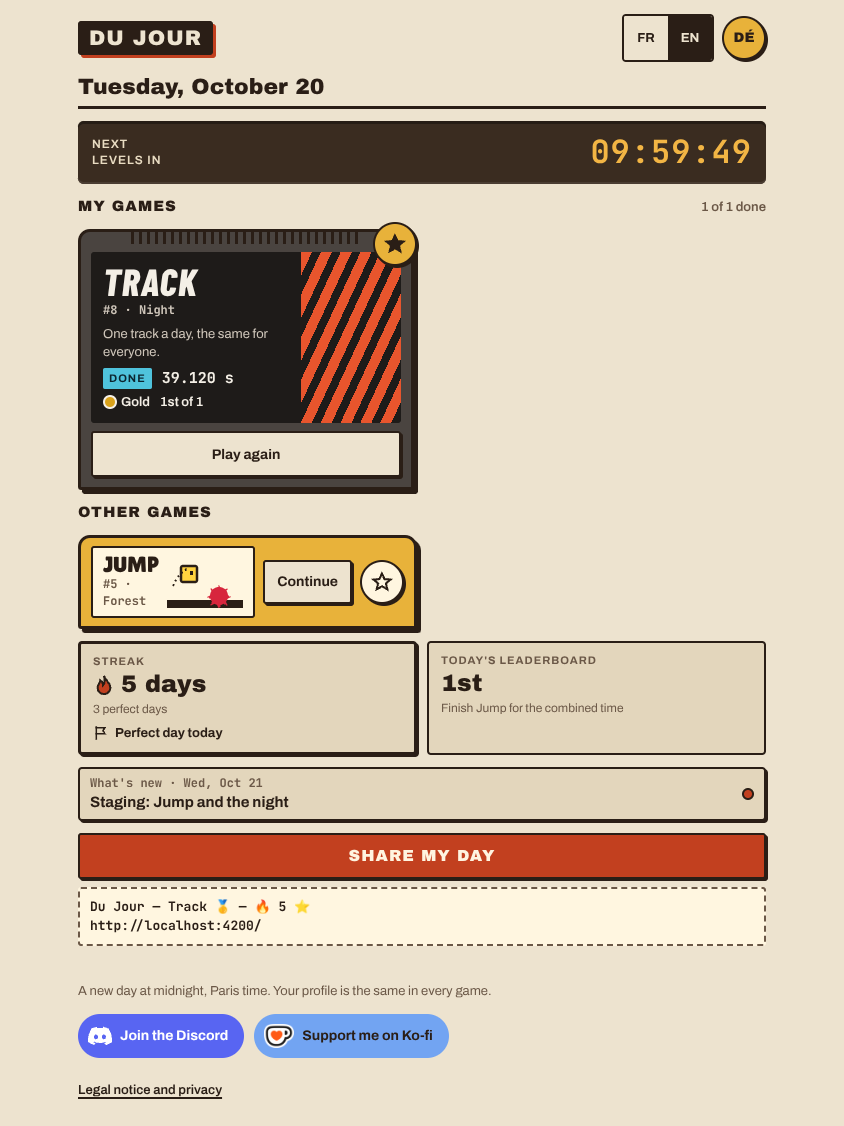
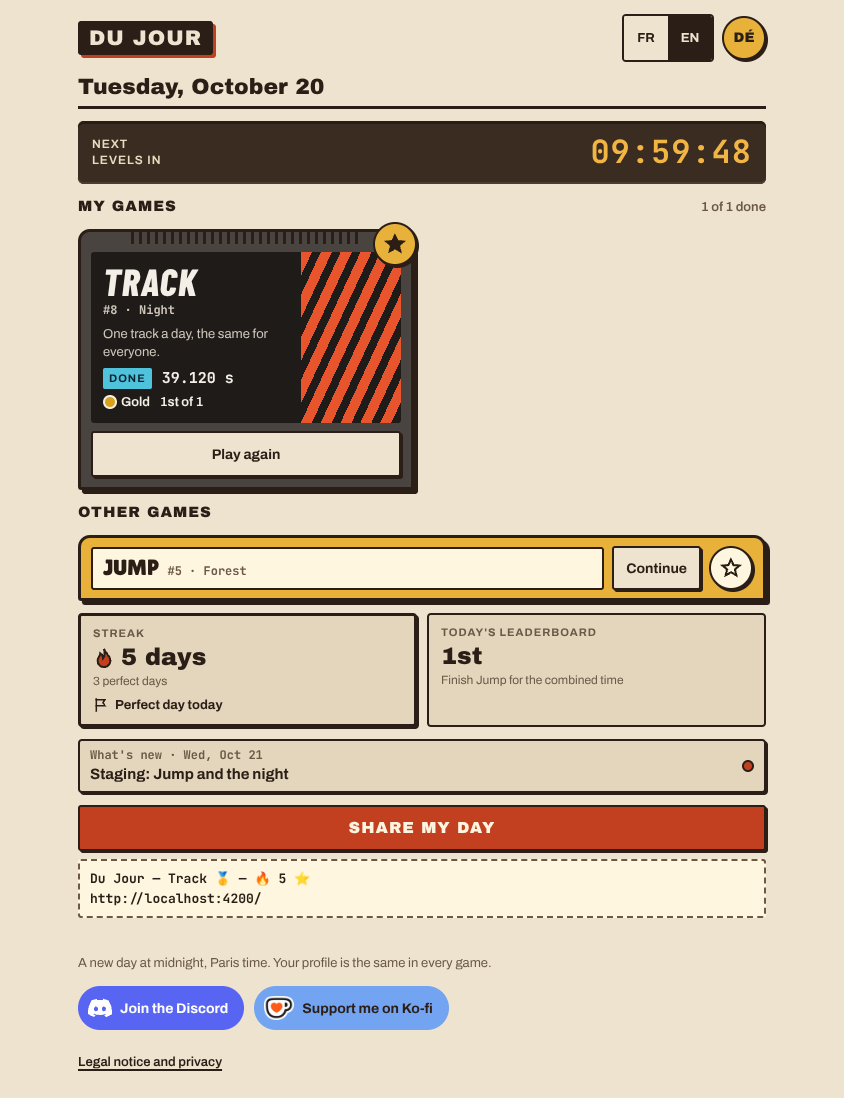
Lot F1 : cartouches compactes lisibles (Track, Jump, Tower), une colonne
- Le décor de l'étiquette (dessin de Jump et de Tower) disparaît en compact, la livrée
  de Track devient une bande étroite sous laquelle le texte ne passe pas : plus de
  chevauchement avec le numéro, le titre ni le bouton.
- « Les autres jeux » : une ligne par jeu, jamais deux colonnes étroites.
- La pastille « Nouveau » se pose sur le bord de la ligne.
- Budget du portail : +2 094 o mesurés, plafond 35 150 (à valider par Nathan).

Claude-Session: https://claude.ai/code/session_012eMWG2xN8q8rTXkqMFU2iP

diff --git a/apps/portail/test/construction.test.ts b/apps/portail/test/construction.test.ts
@@ -12,7 +12,7 @@ import { VITRINE, portailEnv } from "../../../scripts/site.mjs";
 //     déclarées par la page ≤ 150 ko, seules Archivo Black et Archivo 400 préchargées ;
 //   - la vitrine `/ui/` n'est jamais construite pour la production.
 // Les chiffres sont écrits dans la sortie du test (et recopiés dans le README du lot).
-export const BUDGET_PREMIER_CHARGEMENT = 35_100; // lot F1 : 33 000 → 35 100 o (+2 100 pour +2 036 mesurés), « Mes jeux » (l'étoile, la cartouche compacte, la répartition, la pastille « Nouveau », les textes fr + en) : **à valider par Nathan** (`docs/plateforme/budgets.md`) ; avant : lot S1 : 32 768 → 33 000 o (+232 o), décision de Nathan du 31/10/2026 : les boutons Discord / Ko-fi passent par le composant du socle (jetons de couleur, code) ; avant : 32 * 1024 ; lot 53 : 30 → 32 ko (+2 048 o), décision de Nathan du 28/10/2026 : la pastille de l'iPhone, « Retrouver mon profil » (à la demande), l'en-tête iOS, les marges de sécurité
+export const BUDGET_PREMIER_CHARGEMENT = 35_150; // lot F1 : 33 000 → 35 150 o (+2 150 pour +2 094 mesurés), « Mes jeux » (l'étoile, la cartouche compacte, la répartition, la pastille « Nouveau », les textes fr + en) : **à valider par Nathan** (`docs/plateforme/budgets.md`) ; avant : lot S1 : 32 768 → 33 000 o (+232 o), décision de Nathan du 31/10/2026 : les boutons Discord / Ko-fi passent par le composant du socle (jetons de couleur, code) ; avant : 32 * 1024 ; lot 53 : 30 → 32 ko (+2 048 o), décision de Nathan du 28/10/2026 : la pastille de l'iPhone, « Retrouver mon profil » (à la demande), l'en-tête iOS, les marges de sécurité
 export const BUDGET_POLICES = 150 * 1024;
 
 const ROOT = join(__dirname, "../../..");

diff --git a/packages/ui/src/favoris.css b/packages/ui/src/favoris.css
@@ -37,21 +37,32 @@
 .dj-cartouche--avec-favori {
   position: relative;
 }
-/* La cartouche compacte : une ligne, mêmes coque, couleurs et étiquette que la pleine (variante, pas un nouveau dessin). Les stries de préhension laissent la place. */
+/* La cartouche compacte : une ligne, mêmes coque, couleurs et étiquette que la pleine (variante, pas un nouveau dessin). Les stries de préhension laissent la place ; les décors de
+   l'étiquette (dessin de Jump et de Tower) aussi — le nom, le numéro et la couleur du jeu restent ; la livrée de Track n'est plus qu'une bande étroite, sous laquelle le texte ne passe pas. */
 .dj-cartouche--compacte {
+  position: relative;
   flex-direction: row;
   align-items: center;
   gap: var(--dj-espace-3);
   padding: var(--dj-espace-3) var(--dj-espace-4);
 }
-.dj-cartouche--compacte .dj-cartouche__stries {
+.dj-cartouche--compacte .dj-cartouche__stries,
+.dj-cartouche--compacte .jump-etiquette__dessin,
+.dj-cartouche--compacte .tower-etiquette__dessin {
   display: none;
 }
 .dj-cartouche--compacte .dj-etiquette {
   flex: 1;
   min-width: 0;
   min-height: 0;
-  padding: var(--dj-espace-2) var(--dj-espace-4);
+  padding: var(--dj-espace-3) var(--dj-espace-4);
+}
+.dj-cartouche--compacte .track-etiquette {
+  padding-right: 52px;
+}
+.dj-cartouche--compacte .track-etiquette__livree {
+  width: 40px;
+  right: -8px;
 }
 .dj-cartouche--compacte .dj-cartouche__action {
   flex: none;
@@ -61,4 +72,3 @@
   min-height: var(--dj-cible);
   padding: 0 var(--dj-espace-5);
 }
-

diff --git a/apps/portail/src/portail.css b/apps/portail/src/portail.css
@@ -694,6 +694,11 @@
 .portail-etagere--compacte {
   gap: var(--dj-espace-4);
 }
+@media (min-width: 600px) {
+  .portail-etagere.portail-etagere--compacte {
+    grid-template-columns: minmax(0, 1fr); /* une ligne par jeu, jamais deux colonnes étroites */
+  }
+}
 .portail-etagere--compacte .track-etiquette__tete,
 .portail-etagere--compacte .jump-etiquette__tete,
 .portail-etagere--compacte .tower-etiquette__tete {
@@ -729,7 +734,8 @@
   letter-spacing: 0.04em;
   text-transform: uppercase;
 }
-.dj-cartouche--avec-favori > .dj-badge-nouveau {
+.dj-cartouche--avec-favori > .dj-badge-nouveau,
+.dj-cartouche--compacte > .dj-badge-nouveau {
   position: absolute;
   top: -12px;
   left: var(--dj-espace-5);

diff --git a/docs/plateforme/budgets.md b/docs/plateforme/budgets.md
@@ -10,7 +10,7 @@ Octets **compressés** (gzip) pour le JS, le CSS et le HTML ; octets des fichier
 
 | Clé | Application | Mesure | Budget (o) | Avant | Après | Marge | Gardé par |
 |---|---|---|---|---|---|---|---|
-| `portail.premier` | Portail | premier chargement de l'accueil (HTML, JS, CSS) | 35 100 | 22 360 | 35 036 (lot F1 : **+2 036 mesuré contre `main` reconstruit à part (33 000)** — « Mes jeux » : l'étoile (`boutonFavori`, `iconeEtoile`), la variante compacte de la cartouche, la répartition mes jeux / autres jeux, la ligne « à partir de demain », la pastille « Nouveau », la lecture de la liste de favoris, les textes français et anglais ; l'écriture au serveur est déjà à la demande (`favorisReseau.ts`) ; **plafond relevé de 2 100 o : à valider par Nathan** — le lot demandait un budget tenu, l'étoile et la cartouche compacte sont dans le premier dessin de l'accueil et ne peuvent pas être à la demande ; autre piste notée au rapport : charger le catalogue anglais du portail à la demande) ; 32 897 (lot S1 : +142 mesuré contre `main` reconstruit à part (32 755) — le pied passe par le composant du socle ; plafond relevé de 232 o par Nathan, 31/10/2026) ; 32 755 (lot TP : mesuré après la fusion de `main` — la cartouche de Tower, l'onglet et la ligne de partage (textes raccourcis pour tenir) ; avant : 31 650 (lot « musique » : +0 mesuré contre `main` reconstruit à part (31 650 ; le 31 590 noté par le lot M1 était resté en deçà) — la clé gardée `cdj:musique` de `@cdj/profile`; avant : 31 590 (lot M1 : +151 mesuré contre `main` reconstruit à part (31 439) — l'écoute de la première manette de chacune des quatre pages ; le menu est à la demande ; avant : 31 439 (lot T1 : −1 027 mesuré contre `main` reconstruit à part (32 466) — les six jetons de Tower coûtent ≈ +115 o, mais la table des jetons n'est plus gardée dans le JavaScript quand l'application n'appelle pas `valeurJeton` (`tous()` lu à la demande, `packages/ui/src/jetons.ts`) : ≈ −1 100 o ; 32 466 (lot P : +232 mesuré contre `main` reconstruit à part (32 234) — le badge « Brouillon » d'un jeu pas encore ouvert (aperçu de PR), `compte` et `brouillon` de la réponse de l'accueil, la rubrique `portail.brouillon`; 32 225 (lot G1 : +15 mesuré contre `main` (32 210) ; l'icône fantôme, le bouton et leurs textes sont hors du chunk du portail; 32 210 (lot 53 : +1 564 mesuré contre `main` reconstruit à part — la pastille de l'iPhone (`astuceIphone`, `pleinEcran.ts`) qui entre dans le portail, l'en-tête iOS des pages, `proposerRetrouver` (l'écran « Retrouver mon profil » est dans `retrouverPortail`, à la demande) ; **plafond relevé de 2 048 o par Nathan le 28/10/2026**; 30 646 (pied du portail : +509, ses deux boutons Discord et Ko-fi, la tasse et le pictogramme en fichiers ; 30 137 (lot N2 : +3 737 mesuré contre la ligne précédente — la ligne « Nouveautés » et sa lecture, le bandeau du message et sa surveillance (`@cdj/profile`, `bandeauAnnonce` du socle), la lecture prudente de la réponse de l'accueil ; la page `/nouveautes/` et ses données sont dans leur propre page, hors de ce chargement; 26 400 (lot N1 : +1 123 mesuré contre `main`, le code partagé de la page `/admin/` — logo, bouton, médaille — qui entre dans le chunk commun ; lot R8 : +854, la génération de données, le message « Nouveau départ » et la date du lancement)))))))))| 64 | `apps/portail/test/construction.test.ts` |
+| `portail.premier` | Portail | premier chargement de l'accueil (HTML, JS, CSS) | 35 150 | 22 360 | 35 094 (lot F1 : **+2 094 mesuré contre `main` reconstruit à part (33 000)** — « Mes jeux » : l'étoile (`boutonFavori`, `iconeEtoile`), la variante compacte de la cartouche, la répartition mes jeux / autres jeux, la ligne « à partir de demain », la pastille « Nouveau », la lecture de la liste de favoris, les textes français et anglais ; l'écriture au serveur est déjà à la demande (`favorisReseau.ts`) ; **plafond relevé de 2 150 o : à valider par Nathan** — le lot demandait un budget tenu, l'étoile et la cartouche compacte sont dans le premier dessin de l'accueil et ne peuvent pas être à la demande ; autre piste notée au rapport : charger le catalogue anglais du portail à la demande) ; 32 897 (lot S1 : +142 mesuré contre `main` reconstruit à part (32 755) — le pied passe par le composant du socle ; plafond relevé de 232 o par Nathan, 31/10/2026) ; 32 755 (lot TP : mesuré après la fusion de `main` — la cartouche de Tower, l'onglet et la ligne de partage (textes raccourcis pour tenir) ; avant : 31 650 (lot « musique » : +0 mesuré contre `main` reconstruit à part (31 650 ; le 31 590 noté par le lot M1 était resté en deçà) — la clé gardée `cdj:musique` de `@cdj/profile`; avant : 31 590 (lot M1 : +151 mesuré contre `main` reconstruit à part (31 439) — l'écoute de la première manette de chacune des quatre pages ; le menu est à la demande ; avant : 31 439 (lot T1 : −1 027 mesuré contre `main` reconstruit à part (32 466) — les six jetons de Tower coûtent ≈ +115 o, mais la table des jetons n'est plus gardée dans le JavaScript quand l'application n'appelle pas `valeurJeton` (`tous()` lu à la demande, `packages/ui/src/jetons.ts`) : ≈ −1 100 o ; 32 466 (lot P : +232 mesuré contre `main` reconstruit à part (32 234) — le badge « Brouillon » d'un jeu pas encore ouvert (aperçu de PR), `compte` et `brouillon` de la réponse de l'accueil, la rubrique `portail.brouillon`; 32 225 (lot G1 : +15 mesuré contre `main` (32 210) ; l'icône fantôme, le bouton et leurs textes sont hors du chunk du portail; 32 210 (lot 53 : +1 564 mesuré contre `main` reconstruit à part — la pastille de l'iPhone (`astuceIphone`, `pleinEcran.ts`) qui entre dans le portail, l'en-tête iOS des pages, `proposerRetrouver` (l'écran « Retrouver mon profil » est dans `retrouverPortail`, à la demande) ; **plafond relevé de 2 048 o par Nathan le 28/10/2026**; 30 646 (pied du portail : +509, ses deux boutons Discord et Ko-fi, la tasse et le pictogramme en fichiers ; 30 137 (lot N2 : +3 737 mesuré contre la ligne précédente — la ligne « Nouveautés » et sa lecture, le bandeau du message et sa surveillance (`@cdj/profile`, `bandeauAnnonce` du socle), la lecture prudente de la réponse de l'accueil ; la page `/nouveautes/` et ses données sont dans leur propre page, hors de ce chargement; 26 400 (lot N1 : +1 123 mesuré contre `main`, le code partagé de la page `/admin/` — logo, bouton, médaille — qui entre dans le chunk commun ; lot R8 : +854, la génération de données, le message « Nouveau départ » et la date du lancement)))))))))| 56 | `apps/portail/test/construction.test.ts` |
 | `portail.polices` | Portail | polices de l'accueil | 153 600 | 117 992 | 117 992 | 35 608 | `apps/portail/test/construction.test.ts` |
 | `track.jsCss` | Track | JS + CSS du premier chargement (plafond : lot 43, +15 000, décision de Nathan du 23/10/2026) | 296 736 | 256 990 | 296 275 (lot S1 : + ≈ 160 mesuré, les deux boutons Discord / Ko-fi à la demande) ; 296 163 (lot TP : mesuré après la fusion de `main` — le catalogue commun et le profil commun ; avant : 296 026 (lot « musique » : +363 mesuré contre `main` reconstruit à part (295 663) — le branchement de la musique commune et de ses scènes ; **plafond relevé de 295 736 à 296 736 (+1 000 o accordés par Nathan le 31/10/2026 pour la musique)**; avant : 295 663 (lot M2 : +2 190 mesuré contre `main` reconstruit à part (293 473) — le module des commandes (`@cdj/ui` `commandes.ts`, 1,8 ko : touches choisies, lecture du stockage, noms selon la disposition du clavier, paramètres des aides), les actions de Track, la lecture des touches par `input.ts` et `main.ts`, les aides qui citent les touches choisies ; **l'édition (échange, touches fixes, rétablir), l'écran Réglages › Commandes, sa feuille, ses deux catalogues et les noms des actions sont à la demande** (`commandesEdition`, `commandesEcran`, `catalogue.reglages.commandes`) ; **plafond relevé de 1 024 o, la limite du prompt du lot M2 — à valider par Nathan**; avant : 293 473 (lot M1 : +110 mesuré contre `main` reconstruit à part (293 363) — l'écoute de la première manette (`manetteLien`, une ligne de `main.ts`) ; le menu à la manette, sa feuille, son catalogue et les écrans de Track sont à la demande ; aucun relèvement ; avant : 293 363 (lot 56 : −1 023 mesuré contre `main` (294 386) — l'ambiance du lot 23 est retirée : ses sept recettes (`AMBIENCE`), sa construction en direct (`buildAmbience`), son bus, le curseur « Ambiance » des Réglages et ses textes ; **plafond inchangé**; 294 386 (lot 55, partie B : +367 mesuré contre `main` (294 018) — le crochet du nouveau son (`audio.ts` : chargement à la demande de `son/extension` au premier geste, la voiture qu'on voit, le moteur du lot 9 qui se tait quand le nouveau joue, les écouteurs qui attendent un vrai réveil du contexte pour l'iPhone, `audioSession`) ; le moteur, la boîte, les dix profils, les pneus, les bruitages, le compresseur et les boucles sont **à la demande** ; **plafond inchangé**; 294 023 (lot 55 : +290 mesuré contre `main` (293 733) — le cycle du bouton fantôme à quatre modes (Rien, Le mien, Le premier, Ma sélection), le chargeur du morceau à la demande `fantomesJeu` (cases du classement, compteur, rediffusions choisies, textes et feuille : tout le reste, hors du premier chargement), la référence publique de course (`ref`) posée sur les lignes du classement ; **plafond inchangé**; 293 733 (lot T1 : −927 mesuré contre `main` reconstruit à part (294 660) — les six jetons de Tower coûtent ≈ +115 o, mais la table des jetons n'est plus gardée dans le JavaScript quand l'application n'appelle pas `valeurJeton` (`tous()` lu à la demande, `packages/ui/src/jetons.ts`) : ≈ −1 100 o ; 294 660 (lot P : +205 mesuré contre `main` reconstruit à part (294 455) — la lecture de l'état des jeux au démarrage (`interrupteurInit`, module d'entrée minuscule ; tout le reste, `interrupteur.ts`, son catalogue et sa feuille, est **à la demande**), la clé d'aperçu qui survit au « Nouveau départ », « Jeu suivant du jour » qui ignore un jeu qui ne compte pas encore, `erreur.game_unavailable` ; **plafond relevé de 200 o — à valider par Nathan** (la marge de Track n'était que de 57 o); 294 461 (lot V2 : +54 mesuré contre `main` reconstruit à part (294 407) — l'entrée de la galerie des circuits à venir (`?debug&galerie`, jamais en production) dans le chargeur du banc ; la galerie, sa feuille et le générateur sont à la demande; 294 407 (lot V1 : +392 mesuré contre `main` reconstruit à part (294 015) — le sac de thèmes (`sacThemes.ts` de `@cdj/core` : cycles, jonction, premier jour du sac) et l'ancienne règle gardée (`themeAncien`), dans le premier chargement parce que le thème du jour y est lu (palette de l'accueil, archives, miniatures) ; code resserré (ni cache ni garde d'exécution, ≈ 150 o rendus) ; le registre des jours était déjà dans le premier chargement; 294 015 (pause allégée et rappel des touches : +14 contre 294 001 ; lot G1 : +420 mesuré contre `main` (293 581) — le bouton fantôme en partie, le choix de l'accueil, son texte, les médailles lues dans le registre (v19) ; **plafond relevé de 512 o** sur les 2 048 o autorisés par Nathan pour ce lot; 293 581 (lot 53 : +1 358 mesuré contre `main` reconstruit à part (292 223) — la détection « écran tactile sans plein écran » et le bouton qui ouvre l'aide (JS +1 259 : `pleinEcran.ts`, `boutonPleinEcran`, le câblage de `main.ts`), les marges de sécurité du HUD (CSS +99) ; l'aide, « Retrouver mon profil », leur catalogue et leur feuille sont **à la demande** (`aideIphone`, `retrouverJeu`), rendus autonomes : un module à la demande qui importait un module du premier chargement le faisait éclater en fichiers de plus (+1,4 ko mesurés) ; **plafond relevé de 1 376 o par Nathan le 28/10/2026**; 292 210 (lot 52 : +1 001 mesuré contre `main` reconstruit à part (291 209) — les boutons restent dans le premier chargement, la glissière, le volant, le gyroscope et les réglages tactiles sont à la demande, voir « Lot 52 (Track) » ; **plafond relevé de 1 024 o par Nathan le 28/10/2026** (la fusion du lot N2 ne laissait que 391 o) ; lot N2 : +759 mesuré par l'agent du lot contre l'arbre à 290 450 — `bandeauAnnonce` qui entre dans le morceau partagé du socle (≈ 200 o), la décision d'écran et le câblage de `main.ts` ; la surveillance et le bandeau sont à la demande (`annonceUi`, 1 682 o de JS et 250 o de CSS), jamais dans le premier chargement; 290 151 (lot 51 : +726 mesuré contre `main` reconstruit à part (289 425) — l'entrée du fantôme à la voiture de sa course, la lecture de la voiture du profil, `affichee` / `regarder` de la voiture du jeu, le chronomètre du portique ; la synchronisation du choix, les fantômes et leur construction sont à la demande, jamais dans le premier chargement; 289 395 (lot R11 : +72, le registre des jours et sa lecture ; lot 50 : +1 130, les crochets du post-traitement — un moteur sans multi-échantillonnage quand la chaîne est voulue, le mode copie, la précompilation —, la surveillance de la course, l'entrée du banc ; lot R9 : +19 ; lot R7 : +263; lot 39 : +644 ; lot 40 : +1 689 ; lot 43 : +9 466 ; 40b : +7 512 ; lot 46 : +1 241 ; lot 41 : +1 257 ; lot 44 : −1 847 ; lot 40c, Sparrow : +6 399 ; lot 45 : +2 248 ; lot 47 : +546 ; lot 42 : +211 ; lot 48 : +797 ; lot 49 : +184; lot R8 : +551, la génération de données et le message « Nouveau départ »)))))))))))| 461 | `apps/web/e2e/perf.spec.ts` |
 | `track.js` | Track | JS du premier chargement (plafond : lot 43, +15 000, décision du 23/10/2026) | 284 836 | 245 578 | 284 101 (lot « musique » : +363 (JS seul) contre `main` (283 738) ; plafond relevé de +1 000 o avec la ligne `track.jsCss`; avant : 283 738 (lot M2 : +2 190 (JS seul) mesuré contre `main` reconstruit à part (293 473) — le module des commandes (`@cdj/ui` `commandes.ts`, 1,8 ko : touches choisies, lecture du stockage, noms selon la disposition du clavier, paramètres des aides), les actions de Track, la lecture des touches par `input.ts` et `main.ts`, les aides qui citent les touches choisies ; **l'édition (échange, touches fixes, rétablir), l'écran Réglages › Commandes, sa feuille, ses deux catalogues et les noms des actions sont à la demande** (`commandesEdition`, `commandesEcran`, `catalogue.reglages.commandes`) ; **plafond relevé de 1 024 o, la limite du prompt du lot M2 — à valider par Nathan**; avant : 281 548 (lot M1 : +110 mesuré contre `main` reconstruit à part (281 438) — l'écoute de la première manette (`manetteLien`) ; avant : 281 438 (lot 56 : −1 023 mesuré contre `main` (282 461) — l'ambiance du lot 23 est retirée : ses sept recettes (`AMBIENCE`), sa construction en direct (`buildAmbience`), son bus, le curseur « Ambiance » des Réglages et ses textes ; **plafond inchangé**; 282 461 (lot 55, partie B : +367 mesuré contre `main` (282 093) — le crochet du nouveau son (`audio.ts` : chargement à la demande de `son/extension` au premier geste, la voiture qu'on voit, le moteur du lot 9 qui se tait quand le nouveau joue, les écouteurs qui attendent un vrai réveil du contexte pour l'iPhone, `audioSession`) ; le moteur, la boîte, les dix profils, les pneus, les bruitages, le compresseur et les boucles sont **à la demande** ; **plafond inchangé**; 282 098 (lot 55 : +290 mesuré contre `main` (281 808) — le cycle du bouton fantôme à quatre modes (Rien, Le mien, Le premier, Ma sélection), le chargeur du morceau à la demande `fantomesJeu` (cases du classement, compteur, rediffusions choisies, textes et feuille : tout le reste, hors du premier chargement), la référence publique de course (`ref`) posée sur les lignes du classement ; **plafond inchangé**; 281 808 (lot T1 : −987 mesuré contre `main` reconstruit à part (282 795) — les six jetons de Tower coûtent ≈ +115 o, mais la table des jetons n'est plus gardée dans le JavaScript quand l'application n'appelle pas `valeurJeton` (`tous()` lu à la demande, `packages/ui/src/jetons.ts`) : ≈ −1 100 o ; 282 795 (lot P : +205 mesuré contre `main` (282 590), mêmes causes ; **plafond relevé de 100 o — à valider par Nathan**; 282 596 (lot V2 : +54 mesuré contre `main` reconstruit à part (282 542) — l'entrée de la galerie des circuits à venir (`?debug&galerie`, jamais en production) dans le chargeur du banc ; la galerie, sa feuille et le générateur sont à la demande; 282 542 (lot V1 : +392 mesuré contre `main` reconstruit à part (282 150), mêmes causes; 282 186 (lot G1 : +363 mesuré contre `main` (281 823), mêmes causes ; **plafond relevé de 512 o**; 281 823 (lot 53 : +1 259 mesuré contre `main` reconstruit à part (280 564) — mêmes causes ; **plafond relevé de 976 o par Nathan le 28/10/2026**; 280 551 (lot 52 : +1 045 mesuré contre `main` reconstruit à part (279 506) — les boutons restent dans le premier chargement, la glissière, le volant, le gyroscope et les réglages tactiles sont à la demande, voir « Lot 52 (Track) » ; **plafond relevé de 1 024 o par Nathan le 28/10/2026** (la fusion du lot N2 ne laissait que 391 o) ; lot N2 : +903 mesuré contre la ligne précédente, mêmes causes; 278 603 (lot 51 : +726; 277 847 (lot R11 : +72 ; lot 50 : +1 130 ; lot R9 : +19 ; lot R7 : +263; lot 39 : +644 ; lot 40 : +1 689 ; lot 43 : +9 466 ; 40b : +7 512 ; lot 46 : +1 241 ; lot 41 : +1 121 ; lot 44 : −1 847 ; lot 40c, Sparrow : +6 399 ; lot 45 : +2 248 ; lot 47 : +546 ; lot 42 : +211 ; lot 48 : +797 ; lot 49 : +184; lot R8 : +551)))))))))) | 735 | `apps/web/e2e/perf.spec.ts` |

diff --git a/apps/portail/CLAUDE.md b/apps/portail/CLAUDE.md
@@ -44,7 +44,7 @@ README : `docs/plateforme/lots/lot-I6-finitions.md`.
 - **Accessibilité** : axe (`apps/web/e2e/axe.ts`) sur l'accueil plein, le profil et le classement du jour (`portail-journee.spec.ts`), les mentions FR et EN et la 404 (`domaine.spec.ts`), en français et en anglais : aucune violation « serious » ni « critical ». Le choix de langue (`choixLangue` du socle) se lit « Français » / « English » sans `aria-label` (le nom lu contient le texte visible).
 
 ## iPhone et application ajoutée à l'écran d'accueil (lot 53)
-README : `docs/lots/lot-53-iphone-plein-ecran.md` ; règles de fond : `CLAUDE.md` racine, `apps/web/CLAUDE.md`, `packages/ui/CLAUDE.md`. Le portail n'a pas de bouton plein écran : sur iPhone (hors application) il montre **une fois** la pastille « Partager › Sur l'écran d'accueil » (`astuceIphone`, fermée = `cdj:astuce:plein-ecran`, après la barre) ; **en mode application**, sans profil, au premier lancement, « Retrouver mon profil » (`src/retrouverPortail.ts`, `import()` : rien dans le premier chargement ; il n'importe rien de la page). **Marges de sécurité** : `.portail` (`portail.css`) et le corps des pages statiques (`mentions.css`, `introuvable.css`) y ajoutent `env(safe-area-inset-*)` ; chaque page d'entrée porte l'en-tête iOS et `viewport-fit=cover` ; le manifeste a `id: "/"`. Budget du premier chargement : 35 100 o (relevé par Nathan : lot 53 → 32 768, lot S1 → 33 000 ; lot F1 → 35 100, **à valider par Nathan** : +2 036 o mesurés pour « Mes jeux », voir `docs/plateforme/budgets.md`). Test : `apps/web/e2e/iphone.spec.ts`.
+README : `docs/lots/lot-53-iphone-plein-ecran.md` ; règles de fond : `CLAUDE.md` racine, `apps/web/CLAUDE.md`, `packages/ui/CLAUDE.md`. Le portail n'a pas de bouton plein écran : sur iPhone (hors application) il montre **une fois** la pastille « Partager › Sur l'écran d'accueil » (`astuceIphone`, fermée = `cdj:astuce:plein-ecran`, après la barre) ; **en mode application**, sans profil, au premier lancement, « Retrouver mon profil » (`src/retrouverPortail.ts`, `import()` : rien dans le premier chargement ; il n'importe rien de la page). **Marges de sécurité** : `.portail` (`portail.css`) et le corps des pages statiques (`mentions.css`, `introuvable.css`) y ajoutent `env(safe-area-inset-*)` ; chaque page d'entrée porte l'en-tête iOS et `viewport-fit=cover` ; le manifeste a `id: "/"`. Budget du premier chargement : 35 150 o (relevé par Nathan : lot 53 → 32 768, lot S1 → 33 000 ; lot F1 → 35 150, **à valider par Nathan** : +2 094 o mesurés pour « Mes jeux », voir `docs/plateforme/budgets.md`). Test : `apps/web/e2e/iphone.spec.ts`.
 
 ## Le panneau d'administration (lot N1)
 README : `docs/plateforme/lots/lot-N1-admin-connexion-tableau-joueurs.md` ; serveur : `apps/api/CLAUDE.md`, « Administration (lot N1) » ; étapes de Nathan : `docs/plateforme/admin.md`.

diff --git a/docs/plateforme/lots/lot-F1-mes-jeux-favoris.md b/docs/plateforme/lots/lot-F1-mes-jeux-favoris.md
@@ -13,7 +13,7 @@ Branche `claude/mes-jeux-favoris-jstxwy`, PR en brouillon. Charte : `identite.md
 `<aperçu>/?demo=joueur` : Track sous « Mes jeux », Jump dessous en ligne compacte jaune. Toucher l'étoile de Jump : il monte (« Ton choix compte pour ta journée à partir de demain. »). Recharger : l'ordre est gardé ; le partage ne cite que mes jeux.
 
 ## Décisions à prendre / écarts
-1. **Budget du portail** : +2 036 o mesurés contre `main` (33 000 → 35 036). L'étoile et la cartouche compacte sont dans le premier dessin de l'accueil : pas de « à la demande » possible (l'écriture au serveur l'est déjà). **Plafond relevé de 2 100 o à 35 100, à valider par Nathan** (`budgets.md`). Piste si refusé : charger le catalogue anglais du portail à la demande, dans un lot à part.
+1. **Budget du portail** : +2 094 o mesurés contre `main` (33 000 → 35 094). L'étoile et la cartouche compacte sont dans le premier dessin de l'accueil : pas de « à la demande » possible (l'écriture au serveur l'est déjà). **Plafond relevé de 2 150 o à 35 150, à valider par Nathan** (`budgets.md`). Piste si refusé : charger le catalogue anglais du portail à la demande, dans un lot à part.
 2. **Charte** : le fichier fourni numérotait ce texte « révision 14 » sur une base plus ancienne que le dépôt (qui a déjà les révisions 13 Tower et 14 manette) : je n'ai **pas écrasé** `identite.md`, j'y ai repris le seul passage « Mes jeux » (révision 15). Le sélecteur Tous / Amis du même fichier est celui du lot F2.
 3. **« Première visite »** (le prompt dit « début du jour, ou première visite du jour ») : interprété comme « profil créé aujourd'hui » (`players.created_at`).
 4. **Cache « invalidé pour ce joueur »** : rien à vider côté serveur (sa réponse du jour est `private, no-cache`, recalculée à chaque requête ; le classement gardé ne dépend pas des favoris) ; côté page, la réponse du `PUT` redessine sans relire le jour.
